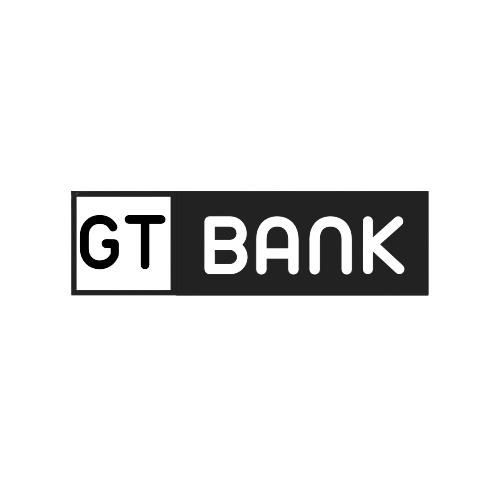
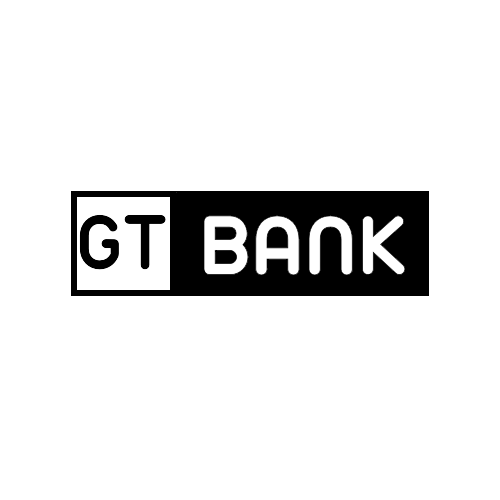
imagem ok

Changed region(s): [[0.12, 0.36, 0.87, 0.6]]

diff --git a/AppBancoDigital/AppBancoDigital/View/Pix/scanear.xaml b/AppBancoDigital/AppBancoDigital/View/Pix/scanear.xaml
@@ -1,0 +1,39 @@
+<?xml version="1.0" encoding="utf-8" ?>
+<ContentPage xmlns="http://xamarin.com/schemas/2014/forms"
+             xmlns:x="http://schemas.microsoft.com/winfx/2009/xaml"
+             xmlns:zxing="clr-namespace:ZXing.Net.Mobile.Forms;assembly=ZXing.Net.Mobile.Forms"
+             x:Class="AppBancoDigital.View.Reber">
+    
+    <ContentPage.Background>
+        <LinearGradientBrush StartPoint="0,1" EndPoint="1,0">
+            <GradientStop Color="#3400E6" Offset="0.3" />
+            <GradientStop Color="#FF0062" Offset="1.3" />
+        </LinearGradientBrush>
+    </ContentPage.Background>
+    
+    
+    <ContentPage.Content>
+        <StackLayout >
+
+            <Button Text="⬅" FontSize="30" TextColor="White" BackgroundColor="Transparent" Clicked="Button_Clicked" HorizontalOptions="Start" VerticalOptions="StartAndExpand"/>
+            
+                    <Grid VerticalOptions="FillAndExpand" Margin="0, -500, 0, 0">
+                        <Grid.RowDefinitions>
+                            <RowDefinition Height="4*"/>
+                            <RowDefinition Height="*"/>
+                        </Grid.RowDefinitions>
+                        <zxing:ZXingScannerView x:Name="zxing" 
+                                    VerticalOptions="FillAndExpand"/>
+                        <zxing:ZXingDefaultOverlay TopText="Segure o Telefone no QR Code"
+                                       BottomText="O resultado vai aparecer abaixo"/>
+                        <Label x:Name="lblResult"
+                           Grid.Row="1"
+                           HorizontalOptions="Center"
+                           VerticalOptions="Center"
+                           HorizontalTextAlignment="Center"
+                           VerticalTextAlignment="Center"/>
+                    </Grid>
+             
+        </StackLayout>
+    </ContentPage.Content>
+</ContentPage>

diff --git a/AppBancoDigital/AppBancoDigital/View/Home.xaml b/AppBancoDigital/AppBancoDigital/View/Home.xaml
@@ -31,7 +31,8 @@
                     </Grid>
                 </StackLayout>
             </Frame>
-          
+
+            <Image x:Name="Logo" Scale="2" HorizontalOptions="CenterAndExpand" VerticalOptions="CenterAndExpand" Margin="0,-50,0,-150"/>
 
             <Frame HasShadow="True" Margin="10" CornerRadius="10" VerticalOptions="CenterAndExpand" HorizontalOptions="FillAndExpand">
                 <StackLayout >
@@ -41,7 +42,8 @@
                     <Line X1="360" Stroke="black" VerticalOptions="Center" Margin="0, 15, 0, 0"/>
 
                     <StackLayout Orientation="Horizontal">
-                        <Label Text="Seu saldo é de: R$ 0,00" TextColor="Black" HorizontalOptions="CenterAndExpand" FontSize="Title" Margin="0, 50"/>
+                        <Label x:Name="txt_saldo" BackgroundColor="Black" Text="Seu saldo é de: R$ 0,00" TextColor="Black" HorizontalOptions="CenterAndExpand" FontSize="Title" Margin="0, 50"/>
+                        <ImageButton x:Name="btn_olho" BackgroundColor="Transparent" Clicked="ImageButton_Clicked"/>
                     </StackLayout>
 
                     <Line X1="360" Stroke="black" VerticalOptions="Center"/>

diff --git a/AppBancoDigital/AppBancoDigital/View/CorrentistaEditar.xaml b/AppBancoDigital/AppBancoDigital/View/CorrentistaEditar.xaml
@@ -29,11 +29,6 @@
                     <Label FontSize="Medium" FontAttributes="Bold" Text="CPF: " TextColor="Black" x:Name="txt_cpf" VerticalOptions="Center" HorizontalOptions="Center"/>
                     <Label FontSize="Medium" FontAttributes="Bold" Text="Email: " TextColor="Black" x:Name="txt_email" VerticalOptions="Center" HorizontalOptions="Center"/>
 
-                    <Button Text="editar imagem" CornerRadius="10" Margin="0, 15, 0, 15" Clicked="Button_Clicked_2" 
-                            BorderWidth="3" BorderColor="Black" TextColor="Black" BackgroundColor="Transparent"
-                            xct:TouchEffect.AnimationDuration="250" xct:TouchEffect.AnimationEasing="{x:Static Easing.CubicInOut}"
-                            xct:TouchEffect.PressedScale="0.75" xct:TouchEffect.PressedOpacity="0.6" xct:TouchEffect.PressedBackgroundColor="Gray"/>
-
                 </StackLayout>
             </Frame>
             

diff --git a/AppBancoDigital/AppBancoDigital/View/Login.xaml b/AppBancoDigital/AppBancoDigital/View/Login.xaml
@@ -14,8 +14,7 @@
     <ContentPage.Content>
         <StackLayout>
 
-                <Image x:Name="Logo" Scale="2" HorizontalOptions="CenterAndExpand" VerticalOptions="CenterAndExpand"
-                       xct:IconTintColorEffect.TintColor="Black"/>  
+                <Image x:Name="Logo" Scale="2" HorizontalOptions="CenterAndExpand" VerticalOptions="CenterAndExpand"/>  
             
             <Frame CornerRadius="5" Margin="10" Padding="10" VerticalOptions="EndAndExpand">
                 <StackLayout VerticalOptions="CenterAndExpand">

diff --git a/AppBancoDigital/AppBancoDigital/View/CorrentistaAdd.xaml b/AppBancoDigital/AppBancoDigital/View/CorrentistaAdd.xaml
@@ -19,7 +19,7 @@
 
             <Frame Margin="0, 20, 0, 0" VerticalOptions="StartAndExpand" HorizontalOptions="CenterAndExpand" BackgroundColor="Gray" CornerRadius="100">
 
-                <Image x:Name="avatar" Aspect="AspectFill" HeightRequest="100" WidthRequest="100" BackgroundColor="Gray"/>
+                <Image xct:CornerRadiusEffect.CornerRadius="100" x:Name="avatar" Aspect="AspectFill" HeightRequest="100" WidthRequest="100" BackgroundColor="Gray"/>
 
             </Frame>
 

diff --git a/AppBancoDigital/AppBancoDigital/View/Home.xaml.cs b/AppBancoDigital/AppBancoDigital/View/Home.xaml.cs
@@ -25,14 +25,17 @@ namespace AppBancoDigital.View
 
             txt_correntista.Text = correntista;
 
+            Logo.Source = ImageSource.FromResource("AppBancoDigital.imagens.GT.png");
+            btn_olho.Source = ImageSource.FromResource("AppBancoDigital.imagens.aberto.png");
+
         }
 
-        private async void Button_Clicked(object sender, EventArgs e)
+        private void Button_Clicked(object sender, EventArgs e)
         {
             App.Current.MainPage = new Enviar();
         }
 
-        private async void Button_Clicked_1(object sender, EventArgs e)
+        private void Button_Clicked_1(object sender, EventArgs e)
         {
             App.Current.MainPage = new Reber();
         }
@@ -40,6 +43,21 @@ namespace AppBancoDigital.View
         private void btn_config_Clicked(object sender, EventArgs e)
         {
             App.Current.MainPage = new CorrentistaEditar();
+        }
+
+        private void ImageButton_Clicked(object sender, EventArgs e)
+        {
+            if (txt_saldo.BackgroundColor == Color.Transparent)
+            {
+                txt_saldo.BackgroundColor = Color.Black;
+                btn_olho.Source = ImageSource.FromResource("AppBancoDigital.imagens.aberto.png");
+            }
+            else
+            {
+                txt_saldo.BackgroundColor = Color.Transparent;
+                                btn_olho.Source = ImageSource.FromResource("AppBancoDigital.imagens.fechado.png");
+
+            }
         }
     }
 }

diff --git a/AppBancoDigital/AppBancoDigital/View/CorrentistaAdd.xaml.cs b/AppBancoDigital/AppBancoDigital/View/CorrentistaAdd.xaml.cs
@@ -88,20 +88,30 @@ namespace AppBancoDigital.View
 
         private async void Button_Clicked_2(object sender, EventArgs e)
         {
-            var result = await MediaPicker.PickPhotoAsync(new MediaPickerOptions
+            try
             {
-                Title = "Selecione uma imagem"
-            });
+                var result = await MediaPicker.PickPhotoAsync(new MediaPickerOptions
+                {
+                    Title = "Selecione uma imagem"
+                });
 
-            if (result != null)
-            {
+                if (result != null)
+                {
 
-                Avatar = true;
+                    Avatar = true;
 
-                avatar.Source = ImageSource.FromFile(result.FullPath);
-                App.DadosCorrentista.SelectedImage = ImageSource.FromFile(result.FullPath);
+                    avatar.Source = ImageSource.FromFile(result.FullPath);
+                    App.DadosCorrentista.SelectedImage = ImageSource.FromFile(result.FullPath);
 
+                }
             }
+            catch(Exception ex)
+            {
+                Console.WriteLine("-------------------------------------------------------");
+                Console.WriteLine(ex.StackTrace);
+                await DisplayAlert("Ops!", ex.Message, "OK");
+            }
+
         }
     }
 }

diff --git a/AppBancoDigital/AppBancoDigital/View/CorrentistaEditar.xaml.cs b/AppBancoDigital/AppBancoDigital/View/CorrentistaEditar.xaml.cs
@@ -47,23 +47,5 @@ namespace AppBancoDigital.View
         {
             App.Current.MainPage = new Home();
         }
-
-        private async void Button_Clicked_2(object sender, EventArgs e)
-        {
-
-            var result = await MediaPicker.PickPhotoAsync(new MediaPickerOptions
-            {
-                Title = "Selecione uma imagem"
-            });
-
-            if (result != null)
-            {
-                
-                Avatar = true;
-                avatar.Source = ImageSource.FromFile(result.FullPath);
-                App.DadosCorrentista.SelectedImage = ImageSource.FromFile(result.FullPath);
-
-            }
-        }
     }
 }

diff --git a/AppBancoDigital/AppBancoDigital/App.xaml.cs b/AppBancoDigital/AppBancoDigital/App.xaml.cs
@@ -7,7 +7,8 @@ namespace AppBancoDigital
 {
     public partial class App : Application
     {
-        public static Correntista DadosCorrentista { get; set; }
+        public static Correntista DadosCorrentista { get; set; } = new Correntista();
+        
 
         public App()
         {
